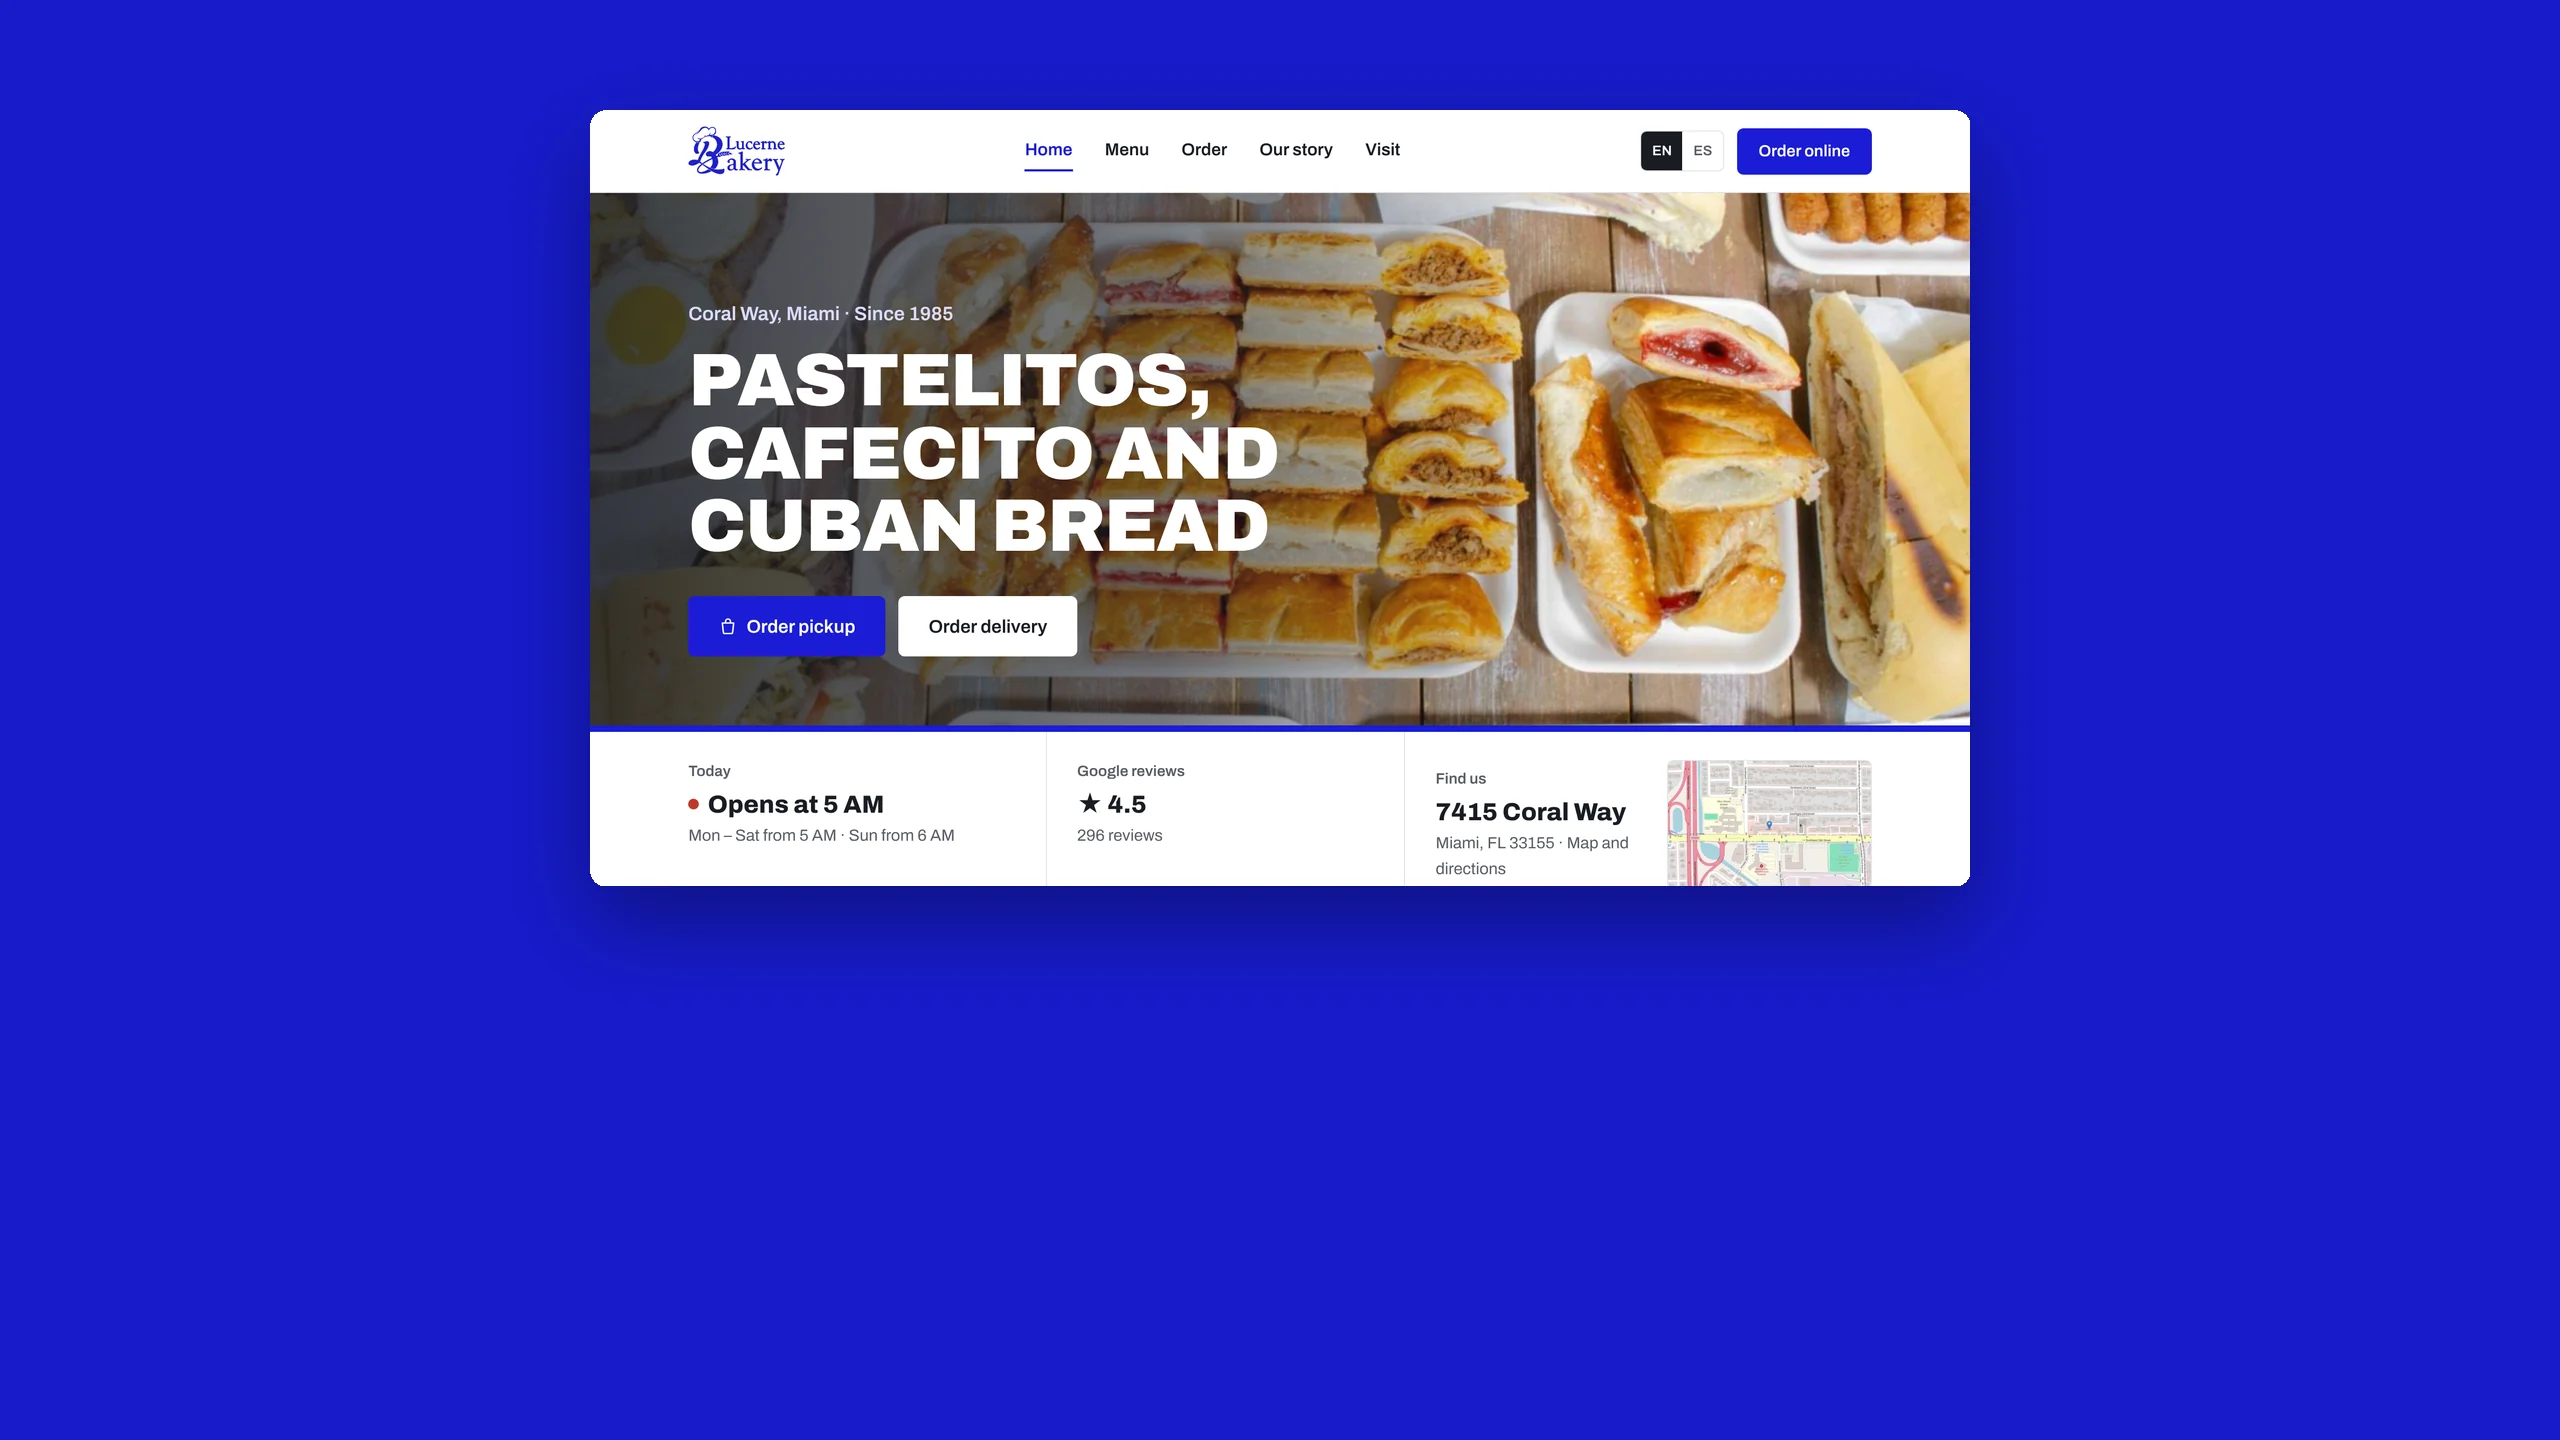
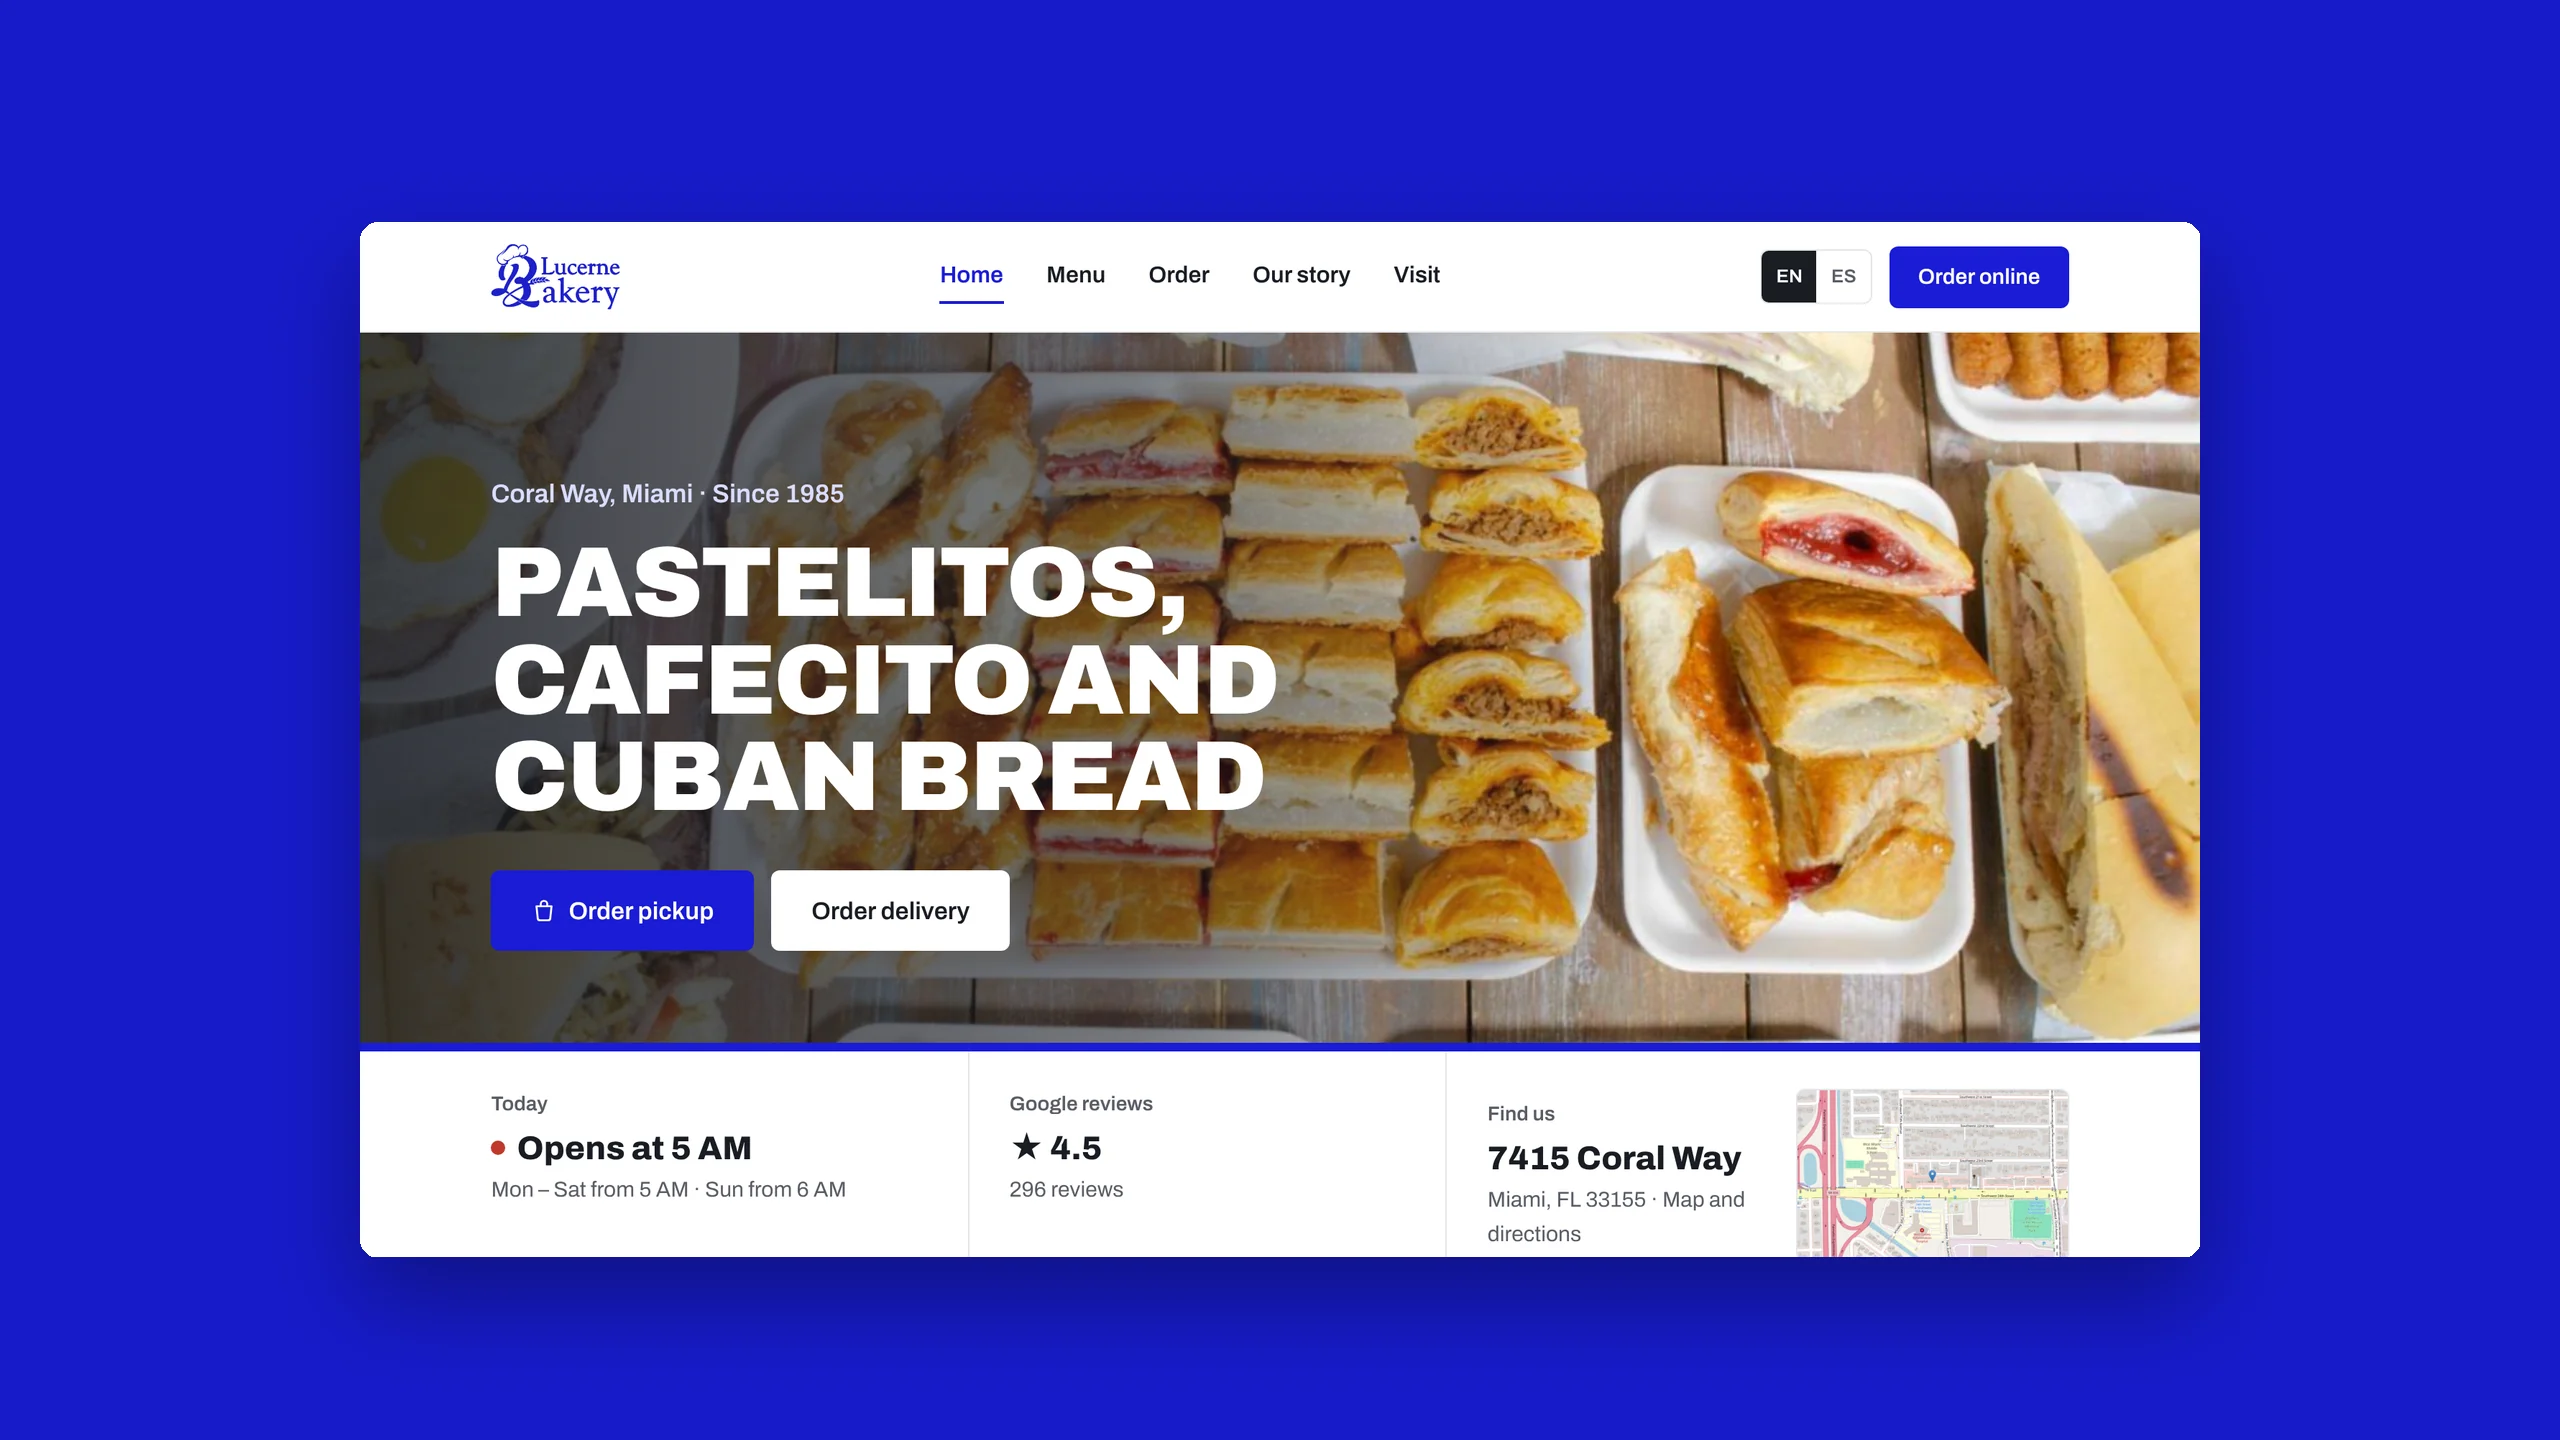
Lucerne card: no text overlay, page centered in frame

diff --git a/es/index.html b/es/index.html
@@ -566,6 +566,7 @@ html.has-case .bar { opacity: 0; pointer-events: none; }
 .panel__btn { position: absolute; inset: 0; display: block; width: 100%; padding: 0; border: 0; background: var(--black); color: var(--ivory); cursor: pointer; overflow: hidden; text-align: left; font: inherit; }
 .panel__btn img { position: absolute; inset: 0; width: 100%; height: 100%; object-fit: cover; display: block; filter: brightness(calc(.3 + var(--in) * .62)); transform: scale(calc(1.06 - var(--in) * .06)); transition: filter .3s linear; }
 .panel__shade { position: absolute; inset: 0; background: linear-gradient(to top, rgba(11,11,11,.85), rgba(11,11,11,0) 55%); }
+.panel--clean .panel__shade, .panel--clean .panel__cap { display: none; }
 .panel__cap { position: absolute; left: var(--gutter); right: var(--gutter); bottom: clamp(28px, 6vh, 64px); display: flex; flex-direction: column; gap: 10px; }
 .panel__n { position: fixed; display: none; }
 .panel__client { font-family: var(--font-display); font-weight: 800; text-transform: uppercase; font-size: clamp(18px, 2.2vw, 30px); letter-spacing: -.01em; }
@@ -973,7 +974,7 @@ html.has-case .pill.is-ready { opacity: 0; pointer-events: none; }
         </button>
         <figcaption>La Vasca Deli Miami. Se abren las puertas.</figcaption>
       </figure>
-      <figure class="panel" data-case-panel="lucerne" data-client="Lucerne Bakery" data-chapter="Página web de panadería y video" data-desc="Una panadería cubana en Coral Way desde 1985. Ordenar, el horario de hoy, las reseñas y cómo llegar en la primera pantalla, en inglés y en español." data-tags="2026 · Página web · Video de plato" data-open="Ver el caso">
+      <figure class="panel panel--clean" data-case-panel="lucerne" data-client="Lucerne Bakery" data-chapter="Página web de panadería y video" data-desc="Una panadería cubana en Coral Way desde 1985. Ordenar, el horario de hoy, las reseñas y cómo llegar en la primera pantalla, en inglés y en español." data-tags="2026 · Página web · Video de plato" data-open="Ver el caso">
         <button type="button" class="panel__btn" style="--bg: url(/work/lucerne-card.webp)" data-case="lucerne" aria-haspopup="dialog" aria-controls="casev" aria-label="Ver el caso: Lucerne Bakery">
           <img src="/work/lucerne-card.webp" alt="" width="2560" height="1440">
           <span class="panel__shade" aria-hidden="true"></span>

diff --git a/index.html b/index.html
@@ -565,6 +565,7 @@ html.has-case .bar { opacity: 0; pointer-events: none; }
 .panel__btn { position: absolute; inset: 0; display: block; width: 100%; padding: 0; border: 0; background: var(--black); color: var(--ivory); cursor: pointer; overflow: hidden; text-align: left; font: inherit; }
 .panel__btn img { position: absolute; inset: 0; width: 100%; height: 100%; object-fit: cover; display: block; filter: brightness(calc(.3 + var(--in) * .62)); transform: scale(calc(1.06 - var(--in) * .06)); transition: filter .3s linear; }
 .panel__shade { position: absolute; inset: 0; background: linear-gradient(to top, rgba(11,11,11,.85), rgba(11,11,11,0) 55%); }
+.panel--clean .panel__shade, .panel--clean .panel__cap { display: none; }
 .panel__cap { position: absolute; left: var(--gutter); right: var(--gutter); bottom: clamp(28px, 6vh, 64px); display: flex; flex-direction: column; gap: 10px; }
 .panel__n { position: fixed; display: none; }
 .panel__client { font-family: var(--font-display); font-weight: 800; text-transform: uppercase; font-size: clamp(18px, 2.2vw, 30px); letter-spacing: -.01em; }
@@ -972,7 +973,7 @@ html.has-case .pill.is-ready { opacity: 0; pointer-events: none; }
         </button>
         <figcaption>La Vasca Deli Miami. The doors open.</figcaption>
       </figure>
-      <figure class="panel" data-case-panel="lucerne" data-client="Lucerne Bakery" data-chapter="Bakery website and dish film" data-desc="A Cuban bakery on Coral Way since 1985. Ordering, today's hours, reviews and directions on the first screen, in English and Spanish." data-tags="2026 · Website · Dish film" data-open="Open the case">
+      <figure class="panel panel--clean" data-case-panel="lucerne" data-client="Lucerne Bakery" data-chapter="Bakery website and dish film" data-desc="A Cuban bakery on Coral Way since 1985. Ordering, today's hours, reviews and directions on the first screen, in English and Spanish." data-tags="2026 · Website · Dish film" data-open="Open the case">
         <button type="button" class="panel__btn" style="--bg: url(work/lucerne-card.webp)" data-case="lucerne" aria-haspopup="dialog" aria-controls="casev" aria-label="Open the case: Lucerne Bakery">
           <img src="work/lucerne-card.webp" alt="" width="2560" height="1440">
           <span class="panel__shade" aria-hidden="true"></span>
